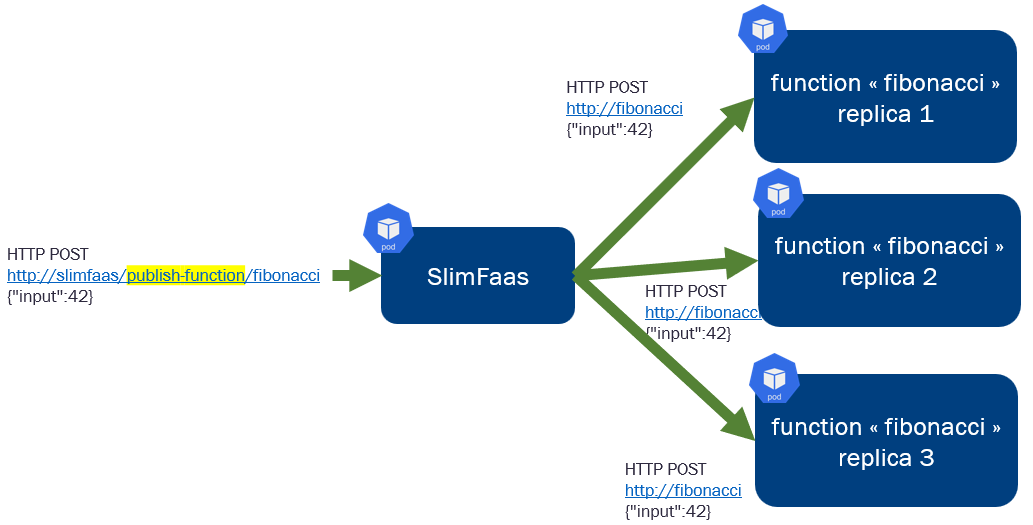
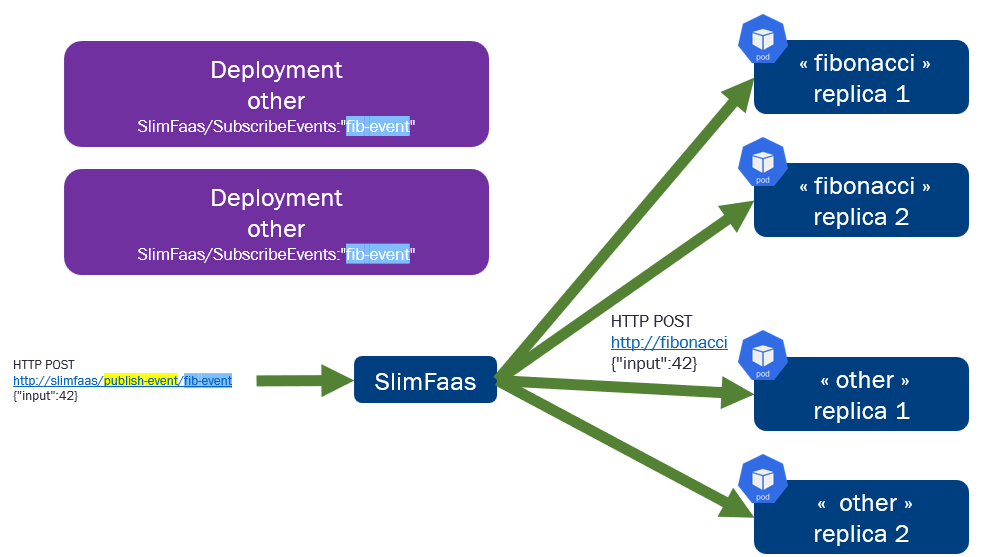
feat(slimfaas): publish event to multiple deployment

diff --git a/src/SlimFaas/SlimProxyMiddleware.cs b/src/SlimFaas/SlimProxyMiddleware.cs
@@ -33,7 +33,7 @@ public class SlimProxyMiddleware(RequestDelegate next, ISlimFaasQueue slimFaasQu
     private const string StatusFunction = "/status-function";
     private const string WakeFunction = "/wake-function";
     private const string Function = "/function";
-    private const string Publish = "/publish-function";
+    private const string PublishEvent = "/publish-event";
 
     private readonly int[] _slimFaasPorts = EnvironmentVariables.ReadIntegers(EnvironmentVariables.SlimFaasPorts,
         EnvironmentVariables.SlimFaasPortsDefault);
@@ -126,6 +126,13 @@ public class SlimProxyMiddleware(RequestDelegate next, ISlimFaasQueue slimFaasQu
         }
     }
 
+    private static List<DeploymentInformation> SearchFunctions(IReplicasService replicasService, string eventName)
+    {
+        var functions =
+            replicasService.Deployments.Functions.Where(f => f.SubscribeEvents?.Contains(eventName) == true).ToList();
+        return functions;
+    }
+
     private static DeploymentInformation? SearchFunction(IReplicasService replicasService, string functionName)
     {
         DeploymentInformation? function =
@@ -150,33 +157,37 @@ public class SlimProxyMiddleware(RequestDelegate next, ISlimFaasQueue slimFaasQu
     }
 
     private async Task BuildPublishResponseAsync(HttpContext context, HistoryHttpMemoryService historyHttpService,
-        ISendClient sendClient, IReplicasService replicasService, string functionName, string functionPath)
+        ISendClient sendClient, IReplicasService replicasService, string eventName, string functionPath)
     {
-        DeploymentInformation? function = SearchFunction(replicasService, functionName);
-        if (function == null)
+        var functions = SearchFunctions(replicasService, eventName);
+        if (functions.Count <= 0)
         {
             context.Response.StatusCode = 404;
             return;
         }
         var lastSetTicks = DateTime.UtcNow.Ticks;
-        historyHttpService.SetTickLastCall(functionName, lastSetTicks);
+
         List<Task<HttpResponseMessage>> tasks = new();
-        foreach (var pod in function.Pods)
+        foreach (DeploymentInformation function in functions)
         {
-            if (pod.Ready != true)
+            historyHttpService.SetTickLastCall(function.Deployment, lastSetTicks);
+            foreach (var pod in function.Pods)
             {
-                continue;
+                if (pod.Ready != true)
+                {
+                    continue;
+                }
+
+                string baseFunctionPodUrl =
+                    Environment.GetEnvironmentVariable(EnvironmentVariables.BaseFunctionPodUrl) ??
+                    EnvironmentVariables.BaseFunctionPodUrlDefault;
+
+                var baseUrl = SlimDataEndpoint.Get(pod, baseFunctionPodUrl);
+
+                Task<HttpResponseMessage> responseMessagePromise = sendClient.SendHttpRequestSync(context, function.Deployment,
+                    functionPath, context.Request.QueryString.ToUriComponent(), baseUrl);
+                tasks.Add(responseMessagePromise);
             }
-
-            string baseFunctionPodUrl =
-                Environment.GetEnvironmentVariable(EnvironmentVariables.BaseFunctionPodUrl) ??
-                EnvironmentVariables.BaseFunctionPodUrlDefault;
-
-            var baseUrl = SlimDataEndpoint.Get(pod, baseFunctionPodUrl);
-
-            Task<HttpResponseMessage> responseMessagePromise = sendClient.SendHttpRequestSync(context, functionName,
-                functionPath, context.Request.QueryString.ToUriComponent(), baseUrl);
-            tasks.Add(responseMessagePromise);
         }
 
         while (tasks.Any(t => !t.IsCompleted) && !context.RequestAborted.IsCancellationRequested)
@@ -189,7 +200,10 @@ public class SlimProxyMiddleware(RequestDelegate next, ISlimFaasQueue slimFaasQu
             }
 
             lastSetTicks = DateTime.UtcNow.Ticks;
-            historyHttpService.SetTickLastCall(functionName, lastSetTicks);
+            foreach (DeploymentInformation function in functions)
+            {
+                historyHttpService.SetTickLastCall(function.Deployment, lastSetTicks);
+            }
         }
 
         context.Response.StatusCode = 200;
@@ -336,7 +350,7 @@ public class SlimProxyMiddleware(RequestDelegate next, ISlimFaasQueue slimFaasQu
             Function => FunctionType.Sync,
             StatusFunction => FunctionType.Status,
             WakeFunction => FunctionType.Wake,
-            Publish => FunctionType.Publish,
+            PublishEvent => FunctionType.Publish,
             _ => FunctionType.NotAFunction
         };
         return new FunctionInfo(functionPath, functionName, functionType);
@@ -361,9 +375,9 @@ public class SlimProxyMiddleware(RequestDelegate next, ISlimFaasQueue slimFaasQu
         {
             functionBeginPath = $"{StatusFunction}";
         }
-        else if (path.StartsWithSegments(Publish))
+        else if (path.StartsWithSegments(PublishEvent))
         {
-            functionBeginPath = $"{Publish}";
+            functionBeginPath = $"{PublishEvent}";
         }
 
         return functionBeginPath;

diff --git a/src/SlimFaas/Kubernetes/KubernetesService.cs b/src/SlimFaas/Kubernetes/KubernetesService.cs
@@ -56,7 +56,8 @@ public record DeploymentInformation(string Deployment, string Namespace, IList<P
     bool ReplicasStartAsSoonAsOneFunctionRetrieveARequest = false,
     PodType PodType = PodType.Deployment,
     IList<string>? DependsOn = null,
-    ScheduleConfig? Schedule = null);
+    ScheduleConfig? Schedule = null,
+    IList<string>? SubscribeEvents = null);
 
 public record PodInformation(string Name, bool? Started, bool? Ready, string Ip, string DeploymentName);
 
@@ -68,6 +69,7 @@ public class KubernetesService : IKubernetesService
     private const string Function = "SlimFaas/Function";
     private const string ReplicasAtStart = "SlimFaas/ReplicasAtStart";
     private const string DependsOn = "SlimFaas/DependsOn";
+    private const string SubscribeEvents = "SlimFaas/SubscribeEvents";
 
     private const string ReplicasStartAsSoonAsOneFunctionRetrieveARequest =
         "SlimFaas/ReplicasStartAsSoonAsOneFunctionRetrieveARequest";
@@ -219,7 +221,10 @@ public class KubernetesService : IKubernetesService
                     annotations.TryGetValue(DependsOn, out string? value)
                         ? value.Split(',').ToList()
                         : new List<string>(),
-                    scheduleConfig
+                    scheduleConfig,
+                    annotations.TryGetValue(SubscribeEvents, out string? valueSubscribeEvents)
+                        ? valueSubscribeEvents.Split(',').ToList()
+                        : new List<string>()
                 );
                 deploymentInformationList.Add(deploymentInformation);
             }
@@ -286,7 +291,10 @@ public class KubernetesService : IKubernetesService
                     annotations.TryGetValue(DependsOn, out string? value)
                         ? value.Split(',').ToList()
                         : new List<string>(),
-                    scheduleConfig);
+                    scheduleConfig,
+                    annotations.TryGetValue(SubscribeEvents, out string? valueSubscribeEvents)
+                        ? valueSubscribeEvents.Split(',').ToList()
+                        : new List<string>());
 
                 deploymentInformationList.Add(deploymentInformation);
             }

diff --git a/tests/SlimFaas.Tests/SlimProxyMiddlewareTests.cs b/tests/SlimFaas.Tests/SlimProxyMiddlewareTests.cs
@@ -38,7 +38,7 @@ internal class MemoryReplicas2ReplicasService : IReplicasService
         new(
             new List<DeploymentInformation>
             {
-                new(Replicas: 2, Deployment: "fibonacci", Namespace: "default",
+                new(Replicas: 2, Deployment: "fibonacci", SubscribeEvents: new List<string>() { "reload" }, Namespace: "default",
                     Pods: new List<PodInformation> { new("fibonacci-1", true, true, "0", "fibonacci"), new("fibonacci-2", true, true, "0", "fibonacci"), new("fibonacci-3", false, false, "0", "fibonacci")  })
             }, new SlimFaasDeploymentInformation(1, new List<PodInformation>()));
 
@@ -85,8 +85,8 @@ public class ProxyMiddlewareTests
 {
 
     [Theory]
-    [InlineData("/publish-function/fibonacci/hello", HttpStatusCode.OK)]
-    [InlineData("/publish-function/wrong/download", HttpStatusCode.NotFound)]
+    [InlineData("/publish-event/reload/hello", HttpStatusCode.OK)]
+    [InlineData("/publish-event/wrong/download", HttpStatusCode.NotFound)]
     public async Task CallPublishInSyncModeAndReturnOk(string path, HttpStatusCode expected)
     {
         Mock<IWakeUpFunction> wakeUpFunctionMock = new();

diff --git a/README.md b/README.md
@@ -1,6 +1,6 @@
 # SlimFaas : The slimest and simplest Function As A Service [![Continuous Integration](https://github.com/AxaFrance/SlimFaas/actions/workflows/slimfaas-ci.yaml/badge.svg)](https://github.com/AxaFrance/SlimFaas/actions/workflows/slimfaas-ci.yaml) [![Quality Gate](https://sonarcloud.io/api/project_badges/measure?project=AxaFrance_SlimFaas&metric=alert_status)](https://sonarcloud.io/dashboard?id=AxaFrance_SlimFaas) [![Reliability](https://sonarcloud.io/api/project_badges/measure?project=AxaFrance_SlimFaas&metric=reliability_rating)](https://sonarcloud.io/component_measures?id=AxaFrance_SlimFaas&metric=reliability_rating) [![Security](https://sonarcloud.io/api/project_badges/measure?project=AxaFrance_SlimFaas&metric=security_rating)](https://sonarcloud.io/component_measures?id=AxaGuilDEv_ml-cli&metric=security_rating) [![Code Corevage](https://sonarcloud.io/api/project_badges/measure?project=AxaFrance_SlimFaas&metric=coverage)](https://sonarcloud.io/component_measures?id=AxaFrance_SlimFaas&metric=Coverage)
-[![Docker SlimFaas](https://img.shields.io/docker/pulls/axaguildev/slimfaas.svg?label=docker+pull+slimfaas)](https://hub.docker.com/r/axaguildev/slimfaas/builds) ![Docker Image Size](https://img.shields.io/docker/image-size/axaguildev/slimfaas?label=image+size+slimfaas)
-![Docker Image Version](https://img.shields.io/docker/v/axaguildev/slimfaas?sort=semver&label=latest+version+slimfaas)
+[![Docker SlimFaas](https://img.shields.io/docker/pulls/axaguildev/slimfaas.svg?label=docker+pull+slimfaas)](https://hub.docker.com/r/axaguildev/slimfaas/builds) [![Docker Image Size](https://img.shields.io/docker/image-size/axaguildev/slimfaas?label=image+size+slimfaas)](https://hub.docker.com/r/axaguildev/slimfaas/builds)
+[![Docker Image Version](https://img.shields.io/docker/v/axaguildev/slimfaas?sort=semver&label=latest+version+slimfaas)](https://hub.docker.com/r/axaguildev/slimfaas/builds)
 
 ![SlimFaas.png](https://github.com/AxaFrance/SlimFaas/blob/main/documentation/SlimFaas.png)
 
@@ -9,7 +9,7 @@ Why use SlimFaas?
 - Synchronous HTTP calls
 - Asynchronous HTTP calls
   - Allows you to limit the number of parallel HTTP requests for each underlying function
-- Synchronous Publish HTTP calls (events) to every replicas
+- Synchronous Publish event via HTTP calls (events) to every replicas which deployment subscribe to the event name
 - Retry: 3 times with graduation: 2 seconds, 4 seconds, 8 seconds
 - Mind Changer: REST API that show the status of your functions and allow to wake up your infrastructure
   - Very useful to inform end users that your infrastructure is starting
@@ -64,8 +64,9 @@ Get function status:
 - http://localhost:30021/status-function/fibonacci2 => {"NumberReady":1,"numberRequested":1}
 - http://localhost:30021/status-function/fibonacci3 => {"NumberReady":1,"numberRequested":1}
 
-Send event to every function replicas:
-- http://localhost:30021/wake-function/fibonacci4/hello/guillaume
+Send event to every function replicas (which deployment subscribe to the event name) in synchronous way:
+
+- HTTP POST http://localhost:30021/publish-event/my-event-name {"data":"my-data"}
 
 Single Page WebApp demo:
 
@@ -115,7 +116,7 @@ SlimFaas act as an HTTP proxy with 2 modes:
 
 To publish the message to every replicas in "Ready" state of the function
 
-- Synchronous http://slimfaas/publish-function/myfunction = > HTTP response function
+- HTTP POST http://slimfaas/publish-event/my-event-name {"data":"my-event-data"}
 
 ![publish_sync_call.png](https://github.com/AxaFrance/slimfaas/blob/main/documentation/publish_sync_call.png)
 
@@ -150,6 +151,7 @@ spec:
         SlimFaas/Schedule : |
             {"Culture":"fr-FR","Default":{"WakeUp":["07:00"],"ScaleDownTimeout":[{"Time":"07:00","Value":20},{"Time":"21:00","Value":10}]}}
         SlimFaas/DependsOn : "mysql,fibonacci2" # comma separated list of deployment or statefulset names
+        SlimFaas/SubscribeEvents : "my-event-name" # comma separated list of event names
     spec:
       serviceAccountName: default
       containers:
@@ -312,6 +314,9 @@ spec:
   - This property is useful if you want to scale up your pods only if your database is ready for example
 - **SlimFaas/Schedule** : json configuration
   - Allows you to define a schedule for your functions. If you want to wake up your infrastructure at 07:00 or for example scale down after 60 seconds of inactivity after 07:00 and scale down after 10 seconds of inactivity after 21:00
+- **SlimFaas/SubscribeEvents** : "my-event-name"
+  - Comma separated list of event names to license the function to receive events
+
 
 ````bash
 {
